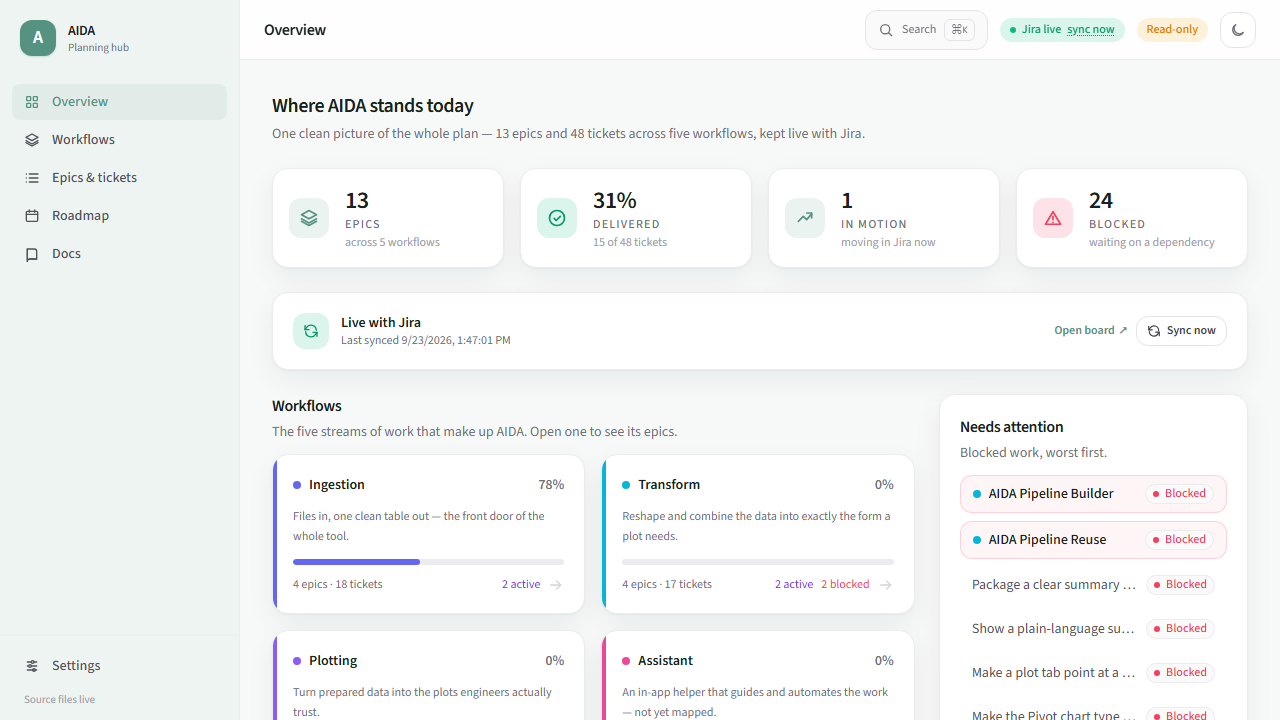
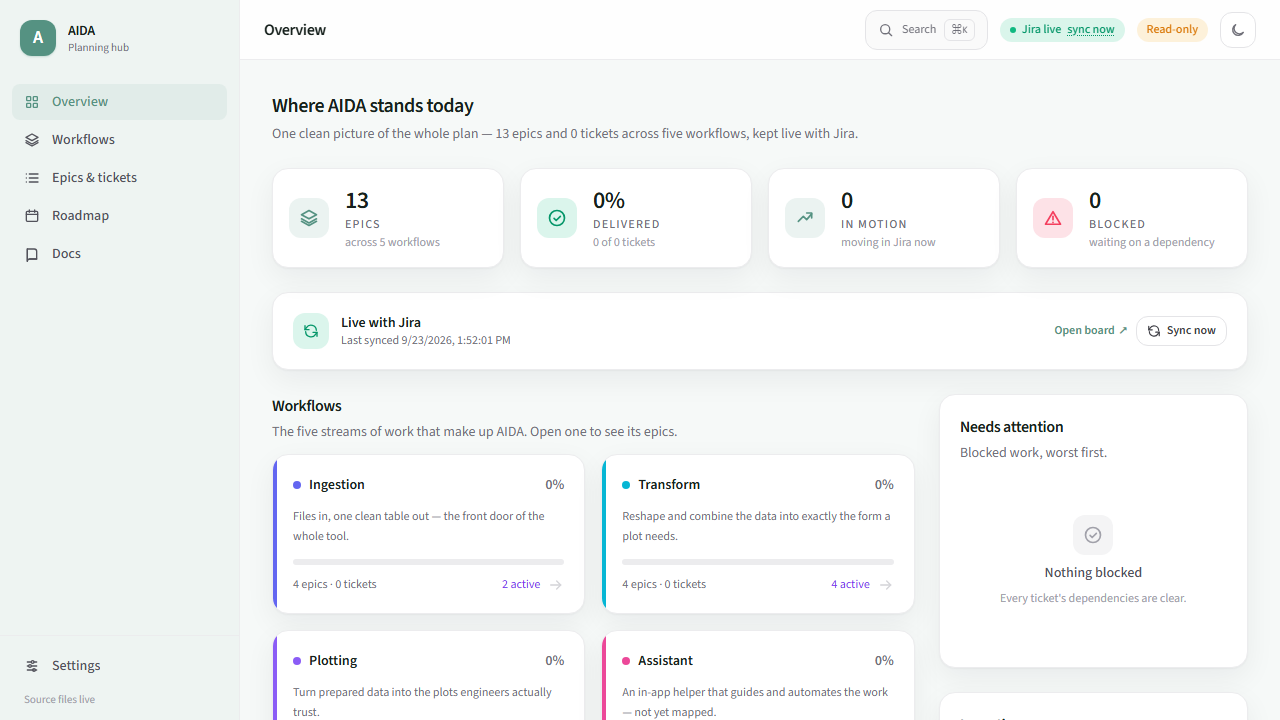
feat: include deployed app screenshots

diff --git a/app/components/Story/StoryExperience.vue b/app/components/Story/StoryExperience.vue
@@ -126,7 +126,7 @@ onMounted(async () => {
 
     <section class="mx-auto max-w-[1600px] px-4 py-12 md:px-8">
       <div class="grid gap-5 md:grid-cols-3">
-        <figure v-for="screen in ['aida-planning', 'common-vue-components', 'common-vue-components-demo']" :key="screen" class="rounded-[2rem] border border-ink/10 bg-ink p-3 shadow-editorial">
+        <figure v-for="screen in ['aida', 'aida-demo', 'aida-planning', 'common-vue-components', 'common-vue-components-demo']" :key="screen" class="rounded-[2rem] border border-ink/10 bg-ink p-3 shadow-editorial">
           <div class="mb-3 flex gap-1.5 px-2 pt-1">
             <span class="h-2.5 w-2.5 rounded-full bg-violet-500" />
             <span class="h-2.5 w-2.5 rounded-full bg-violet-400" />

diff --git a/scripts/capture-sources.spec.ts b/scripts/capture-sources.spec.ts
@@ -1,6 +1,8 @@
 import { test } from "@playwright/test";
 
 const targets = [
+  { name: "aida", url: "https://aida.icp.infineon.com" },
+  { name: "aida-demo", url: "https://aida-demo.icp.infineon.com" },
   { name: "aida-planning", url: "https://aida-planning.icp.infineon.com" },
   { name: "common-vue-components", url: "https://common-vue-components.icp.infineon.com" },
   { name: "common-vue-components-demo", url: "https://common-vue-components-demo.icp.infineon.com" }
